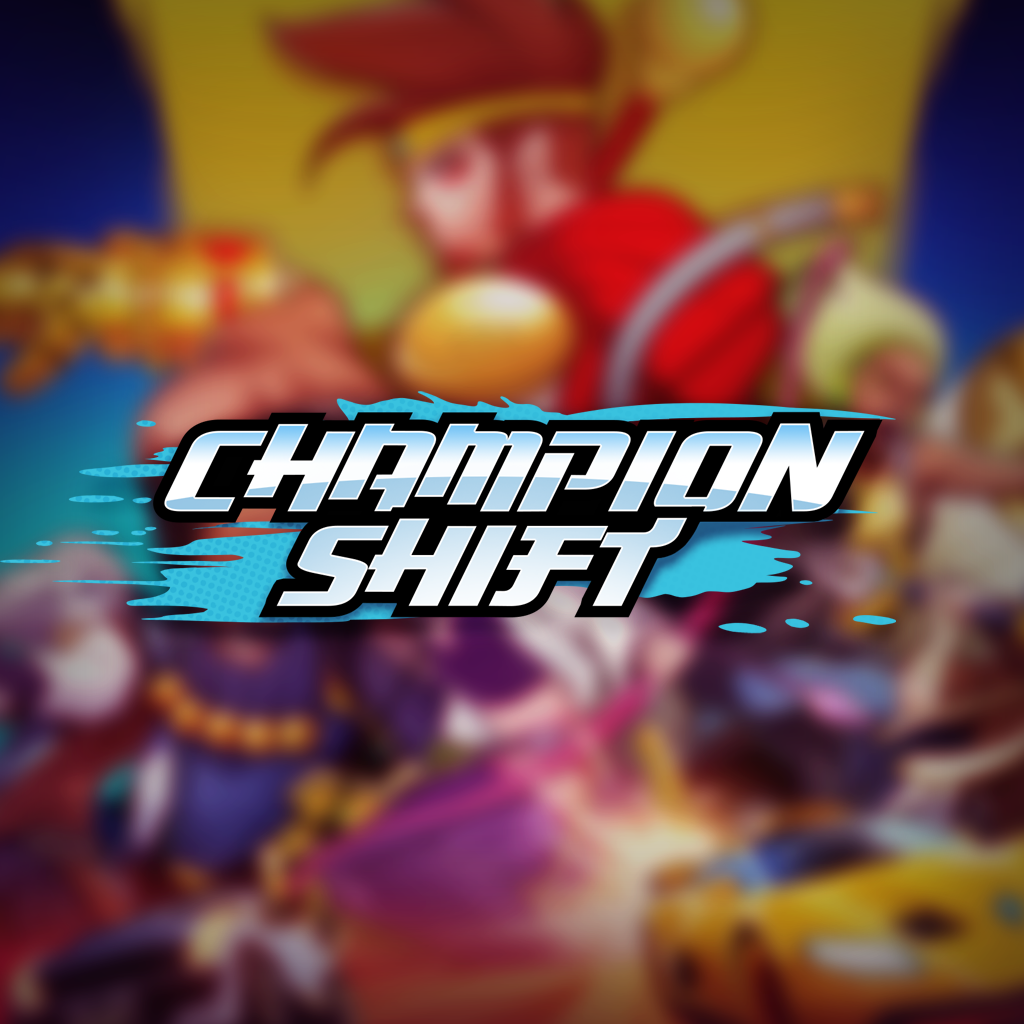
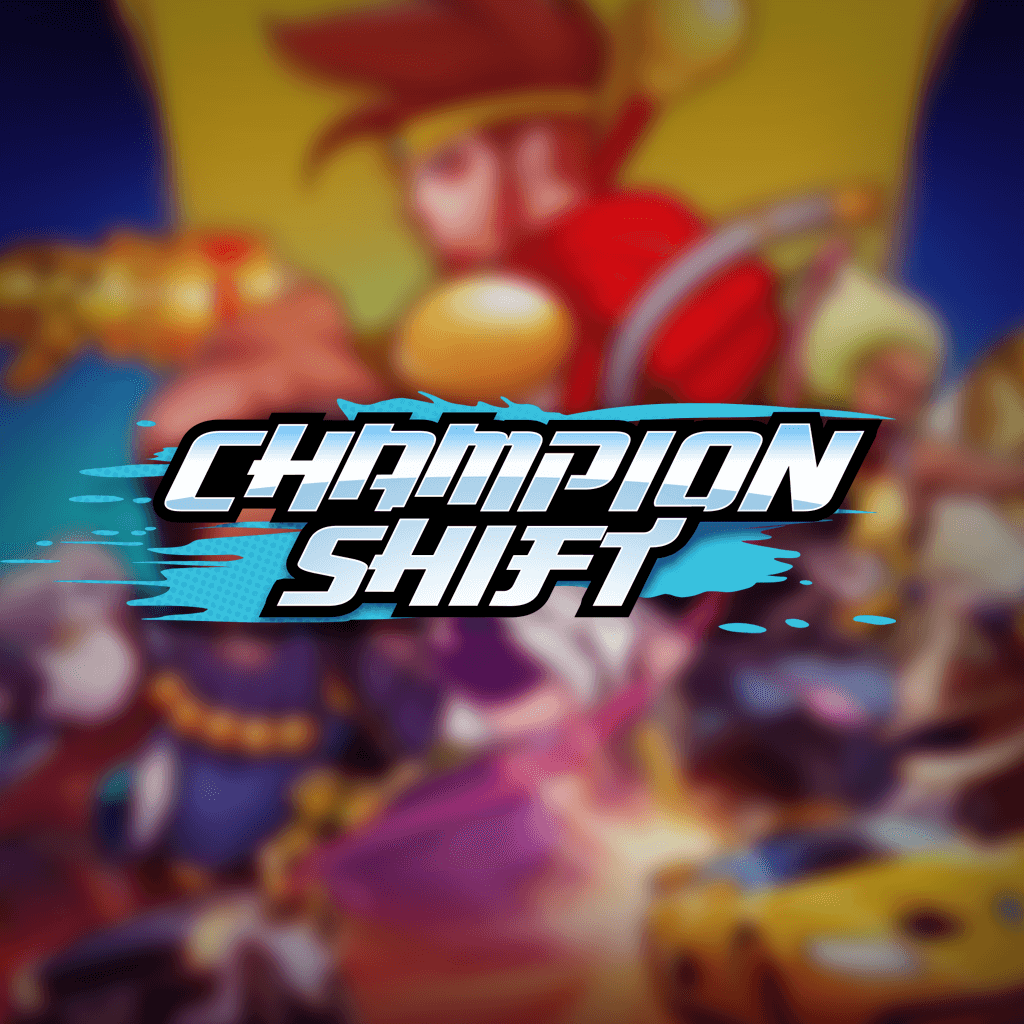
CS Optimization Pass

diff --git a/CS.html b/CS.html
@@ -53,46 +53,198 @@
 						<div class="inner">
 							<h1 align="center">Champion Shift</h1>
 							<p align="center">Worked on 3D models for the playable characters as well as editing external assets to better fit the game, including: enemies, props and vehicles.</p>
-							<span class="image main"><img src="images/CS/Banner.png" alt="" /></span>
+							<span class="image main"><img
+							sizes="(max-width: 2304px) 100vw, 2304px"
+							srcset="
+							./images/CS/Banner_480.png 480w,
+							./images/CS/Banner_1338.png 1338w,
+							./images/CS/Banner_1949.png 1949w,
+							./images/CS/Banner_2304.png 2304w"
+							src="./images/CS/Banner_2304.png"
+							alt=""></span>
 
 							<div class="box alt">
 										<div class="row aln-center">
 											
-											<div class="col-4"><span class="image fit"><a href="images/CS/Vejigante_01.png" data-lightbox="CS"><img src="images/CS/Vejigante_01.png" alt="" class="CS_Characters"/></a></span></div>
+											<div class="col-4"><span class="image fit"><a href="images/CS/Vejigante_01.png" data-lightbox="CS"><img
+											sizes="(max-width: 1920px) 100vw, 1920px"
+											srcset="
+											./images/CS/Vejigante_01_600.png 600w,
+											./images/CS/Vejigante_01_1155.png 1200w,
+											./images/CS/Vejigante_01_1566.png 1600w,
+											./images/CS/Vejigante_01_1920.png 1920w"
+											src="./images/CS/Vejigante_01_1920.png"
+											alt="" class="CS_Characters" loading="lazy"/></a></span></div>
 											
-											<div class="col-4"><span class="image fit"><a href="images/CS/Vejigante_02.png" data-lightbox="CS"><img src="images/CS/Vejigante_02.png" alt="" class="CS_Characters"/></a></span></div>
+											<div class="col-4"><span class="image fit"><a href="images/CS/Vejigante_02.png" data-lightbox="CS"><img 
+											sizes="(max-width: 1920px) 100vw, 1920px"
+											srcset="
+											./images/CS/Vejigante_02_600.png 600w,
+											./images/CS/Vejigante_02_1168.png 1200w,
+											./images/CS/Vejigante_02_1573.png 1600w,
+											./images/CS/Vejigante_02_1920.png 1920w"
+											src="./images/CS/Vejigante_02_1920.png"
+											alt="" class="CS_Characters" loading="lazy"/></a></span></div>
 											
-											<div class="col-4"><span class="image fit"><a href="images/CS/Vejigante_03.png" data-lightbox="CS"><img src="images/CS/Vejigante_03.png" alt="" class="CS_Characters"/></a></span></div>
+											<div class="col-4"><span class="image fit"><a href="images/CS/Vejigante_03.png" data-lightbox="CS"><img 
+											sizes="(max-width: 1920px) 100vw, 1920px"
+											srcset="
+											./images/CS/Vejigante_03_600.png 600w,
+											./images/CS/Vejigante_03_1171.png 1200w,
+											./images/CS/Vejigante_03_1572.png 1600w,
+											./images/CS/Vejigante_03_1920.png 1920w"
+											src="./images/CS/Vejigante_03_1920.png"
+											alt="" class="CS_Characters" loading="lazy"/></a></span></div>
 																						
-											<div class="col-4"><span class="image fit"><a href="images/CS/Wukong_01.png" data-lightbox="CS"><img src="images/CS/Wukong_01.png" alt="" class="CS_Characters"/></a></span></div>
+											<div class="col-4"><span class="image fit"><a href="images/CS/Wukong_01.png" data-lightbox="CS"><img 
+										 	sizes="(max-width: 1920px) 100vw, 1920px"
+											srcset="
+											./images/CS/Wukong_01_600.png 600w,
+											./images/CS/Wukong_01_1165.png 1200w,
+											./images/CS/Wukong_01_1582.png 1600w,
+											./images/CS/Wukong_01_1920.png 1920w"
+											src="./images/CS/Wukong_01_1920.png"
+											alt="" class="CS_Characters" loading="lazy"/></a></span></div>
 											
-											<div class="col-4"><span class="image fit"><a href="images/CS/Wukong_02.png" data-lightbox="CS"><img src="images/CS/Wukong_02.png" alt="" class="CS_Characters"/></a></span></div>
+											<div class="col-4"><span class="image fit"><a href="images/CS/Wukong_02.png" data-lightbox="CS"><img
+											sizes="(max-width: 1920px) 100vw, 1920px"
+											srcset="
+											./images/CS/Wukong_02_600.png 600w,
+											./images/CS/Wukong_02_1163.png 1200w,
+											./images/CS/Wukong_02_1582.png 1600w,
+											./images/CS/Wukong_02_1920.png 1920w"
+											src="./images/CS/Wukong_02_1920.png"
+											alt="" class="CS_Characters" loading="lazy"/></a></span></div>
 											
-											<div class="col-4"><span class="image fit"><a href="images/CS/Wukong_03.png" data-lightbox="CS"><img src="images/CS/Wukong_03.png" alt="" class="CS_Characters"/></a></span></div>
+											<div class="col-4"><span class="image fit"><a href="images/CS/Wukong_03.png" data-lightbox="CS"><img
+											sizes="(max-width: 1920px) 100vw, 1920px"
+											srcset="
+											./images/CS/Wukong_03_600.png 600w,
+											./images/CS/Wukong_03_1163.png 1200w,
+											./images/CS/Wukong_03_1579.png 1600w,
+											./images/CS/Wukong_03_1920.png 1920w"
+											src="./images/CS/Wukong_03_1920.png"
+											alt="" class="CS_Characters" loading="lazy"/></a></span></div>
 											
-											<div class="col-4"><span class="image fit"><a href="images/CS/Athena_01.png" data-lightbox="CS"><img src="images/CS/Athena_01.png" alt="" class="CS_Characters"/></a></span></div>
+											<div class="col-4"><span class="image fit"><a href="images/CS/Athena_01.png" data-lightbox="CS"><img
+											sizes="(max-width: 1920px) 100vw, 1920px"
+											srcset="
+											./images/CS/Athena_01_600.png 600w,
+											./images/CS/Athena_01_1178.png 1200w,
+											./images/CS/Athena_01_1597.png 1600w,
+											./images/CS/Athena_01_1920.png 1920w"
+											src="./images/CS/Athena_01_1920.png"
+											alt="" class="CS_Characters" loading="lazy"/></a></span></div>
 											
-											<div class="col-4"><span class="image fit"><a href="images/CS/Athena_02.png" data-lightbox="CS"><img src="images/CS/Athena_02.png" alt="" class="CS_Characters"/></a></span></div>
+											<div class="col-4"><span class="image fit"><a href="images/CS/Athena_02.png" data-lightbox="CS"><img 
+											sizes="(max-width: 1920px) 100vw, 1920px"
+											srcset="
+											./images/CS/Athena_02_600.png 600w,
+											./images/CS/Athena_02_1165.png 1200w,
+											./images/CS/Athena_02_1585.png 1600w,
+											./images/CS/Athena_02_1920.png 1920w"
+											src="./images/CS/Athena_02_1920.png"
+											alt="" class="CS_Characters" loading="lazy"/></a></span></div>
 											
-											<div class="col-4"><span class="image fit"><a href="images/CS/Athena_03.png" data-lightbox="CS"><img src="images/CS/Athena_03.png" alt="" class="CS_Characters"/></a></span></div>
+											<div class="col-4"><span class="image fit"><a href="images/CS/Athena_03.png" data-lightbox="CS"><img
+											sizes="(max-width: 1920px) 100vw, 1920px"
+											srcset="
+											./images/CS/Athena_03_600.png 600w,
+											./images/CS/Athena_03_1171.png 1200w,
+											./images/CS/Athena_03_1572.png 1600w,
+											./images/CS/Athena_03_1920.png 1920w"
+											src="./images/CS/Athena_03_1920.png"
+											alt="" class="CS_Characters" loading="lazy"/></a></span></div>
 											
-											<div class="col-4"><span class="image fit"><a href="images/CS/Gilgamesh_01.png" data-lightbox="CS"><img src="images/CS/Gilgamesh_01.png" alt="" class="CS_Characters"/></a></span></div>
+											<div class="col-4"><span class="image fit"><a href="images/CS/Gilgamesh_01.png" data-lightbox="CS"><img 
+											sizes="(max-width: 1920px) 100vw, 1920px"
+											srcset="
+											./images/CS/Gilgamesh_01_600.png 600w,
+											./images/CS/Gilgamesh_01_1159.png 1200w,
+											./images/CS/Gilgamesh_01_1574.png 1600w,
+											./images/CS/Gilgamesh_01_1920.png 1920w"
+											src="./images/CS/Gilgamesh_01_1920.png"
+											alt="" class="CS_Characters" loading="lazy"/></a></span></div>
 											
-											<div class="col-4"><span class="image fit"><a href="images/CS/Gilgamesh_02.png" data-lightbox="CS"><img src="images/CS/Gilgamesh_02.png" alt="" class="CS_Characters"/></a></span></div>
+											<div class="col-4"><span class="image fit"><a href="images/CS/Gilgamesh_02.png" data-lightbox="CS"><img 
+											sizes="(max-width: 1920px) 100vw, 1920px"
+											srcset="
+											./images/CS/Gilgamesh_02_600.png 600w,
+											./images/CS/Gilgamesh_02_1158.png 1200w,
+											./images/CS/Gilgamesh_02_1573.png 1600w,
+											./images/CS/Gilgamesh_02_1920.png 1920w"
+											src="./images/CS/Gilgamesh_02_1920.png"
+											alt="" class="CS_Characters" loading="lazy"/></a></span></div>
 											
-											<div class="col-4"><span class="image fit"><a href="images/CS/Gilgamesh_03.png" data-lightbox="CS"><img src="images/CS/Gilgamesh_03.png" alt="" class="CS_Characters"/></a></span></div>
+											<div class="col-4"><span class="image fit"><a href="images/CS/Gilgamesh_03.png" data-lightbox="CS"><img 
+											sizes="(max-width: 1920px) 100vw, 1920px"
+											srcset="
+											./images/CS/Gilgamesh_03_600.png 600w,
+											./images/CS/Gilgamesh_03_1166.png 1200w,
+											./images/CS/Gilgamesh_03_1571.png 1600w,
+											./images/CS/Gilgamesh_03_1920.png 1920w"
+											src="./images/CS/Gilgamesh_03_1920.png"
+											alt="" class="CS_Characters" loading="lazy"/></a></span></div>
 																						
-											<div class="col-4"><span class="image fit"><a href="images/CS/Tomoe_01.png" data-lightbox="CS"><img src="images/CS/Tomoe_01.png" alt="" class="CS_Characters"/></a></span></div>
+											<div class="col-4"><span class="image fit"><a href="images/CS/Tomoe_01.png" data-lightbox="CS"><img 
+											sizes="(max-width: 1920px) 100vw, 1920px"
+											srcset="
+											./images/CS/Tomoe_01_600.png 600w,
+											./images/CS/Tomoe_01_1156.png 1200w,
+											./images/CS/Tomoe_01_1569.png 1600w,
+											./images/CS/Tomoe_01_1920.png 1920w"
+											src="./images/CS/Tomoe_01_1920.png"
+											alt="" class="CS_Characters" loading="lazy"/></a></span></div>
 											
-											<div class="col-4"><span class="image fit"><a href="images/CS/Tomoe_02.png" data-lightbox="CS"><img src="images/CS/Tomoe_02.png" alt="" class="CS_Characters"/></a></span></div>
+											<div class="col-4"><span class="image fit"><a href="images/CS/Tomoe_02.png" data-lightbox="CS"><img 
+											sizes="(max-width: 1920px) 100vw, 1920px"
+											srcset="
+											./images/CS/Tomoe_02_600.png 600w,
+											./images/CS/Tomoe_02_1169.png 1200w,
+											./images/CS/Tomoe_02_1574.png 1600w,
+											./images/CS/Tomoe_02_1920.png 1920w"
+											src="./images/CS/Tomoe_02_1920.png"
+											alt="" class="CS_Characters" loading="lazy"/></a></span></div>
 											
-											<div class="col-4"><span class="image fit"><a href="images/CS/Tomoe_03.png" data-lightbox="CS"><img src="images/CS/Tomoe_03.png" alt="" class="CS_Characters"/></a></span></div>
+											<div class="col-4"><span class="image fit"><a href="images/CS/Tomoe_03.png" data-lightbox="CS"><img 
+											sizes="(max-width: 1920px) 100vw, 1920px"
+											srcset="
+											./images/CS/Tomoe_03_600.png 600w,
+											./images/CS/Tomoe_03_1161.png 1200w,
+											./images/CS/Tomoe_03_1578.png 1600w,
+											./images/CS/Tomoe_03_1920.png 1920w"
+											src="./images/CS/Tomoe_03_1920.png"
+											alt="" class="CS_Characters" loading="lazy"/></a></span></div>
 																						
-											<div class="col-4"><span class="image fit"><a href="images/CS/Arthur_01.png" data-lightbox="CS"><img src="images/CS/Arthur_01.png" alt="" class="CS_Characters"/></a></span></div>
+											<div class="col-4"><span class="image fit"><a href="images/CS/Arthur_01.png" data-lightbox="CS"><img			
+											sizes="(max-width: 1920px) 100vw, 1920px"
+											srcset="
+											./images/CS/Arthur_01_600.png 600w,
+											./images/CS/Arthur_01_1160.png 1200w,
+											./images/CS/Arthur_01_1575.png 1600w,
+											./images/CS/Arthur_01_1920.png 1920w"
+											src="./images/CS/Arthur_01_1920.png"
+											alt="" class="CS_Characters" loading="lazy"/></a></span></div>
 											
-											<div class="col-4"><span class="image fit"><a href="images/CS/Arthur_02.png" data-lightbox="CS"><img src="images/CS/Arthur_02.png" alt="" class="CS_Characters"/></a></span></div>
+											<div class="col-4"><span class="image fit"><a href="images/CS/Arthur_02.png" data-lightbox="CS"><img
+											sizes="(max-width: 1920px) 100vw, 1920px"
+											srcset="
+											./images/CS/Arthur_02_600.png 600w,
+											./images/CS/Arthur_02_1164.png 1200w,
+											./images/CS/Arthur_02_1582.png 1600w,
+											./images/CS/Arthur_02_1920.png 1920w"
+											src="./images/CS/Arthur_02_1920.png"
+											alt="" class="CS_Characters" loading="lazy"/></a></span></div>
 											
-											<div class="col-4"><span class="image fit"><a href="images/CS/Arthur_03.png" data-lightbox="CS"><img src="images/CS/Arthur_03.png" alt="" class="CS_Characters"/></a></span></div>
+											<div class="col-4"><span class="image fit"><a href="images/CS/Arthur_03.png" data-lightbox="CS"><img
+											sizes="(max-width: 1920px) 100vw, 1920px"
+											srcset="
+											./images/CS/Arthur_03_600.png 600w,
+											./images/CS/Arthur_03_1162.png 1200w,
+											./images/CS/Arthur_03_1581.png 1600w,
+											./images/CS/Arthur_03_1920.png 1920w"
+											src="./images/CS/Arthur_03_1920.png"
+											alt="" class="CS_Characters" loading="lazy"/></a></span></div>
 											
 										</div>
 									</div>
